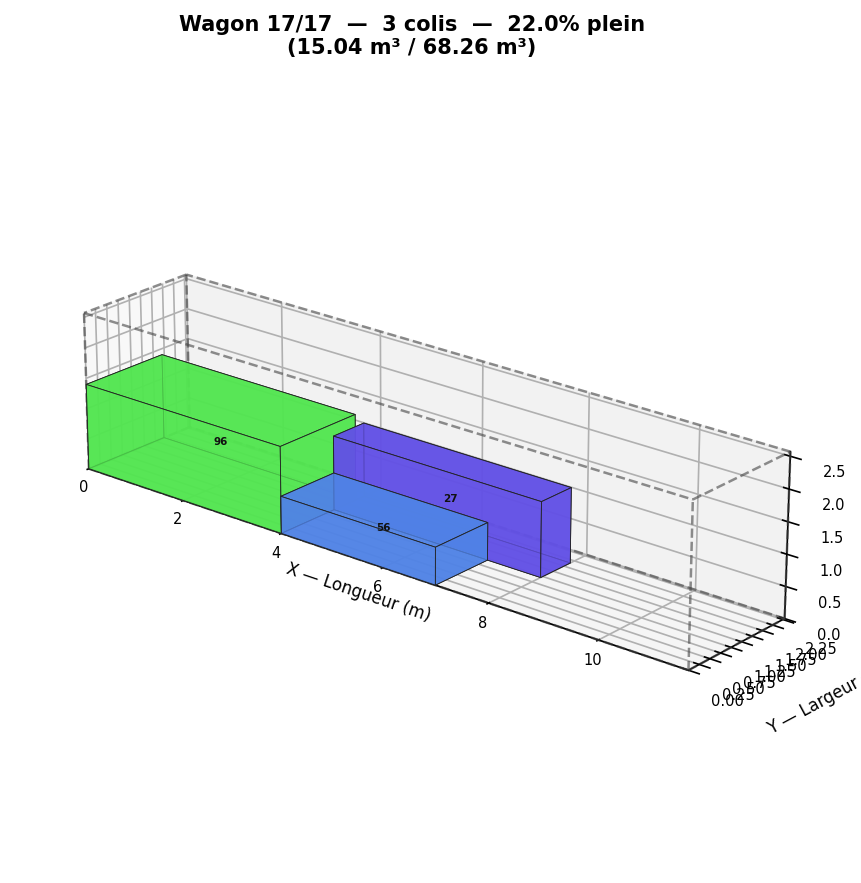
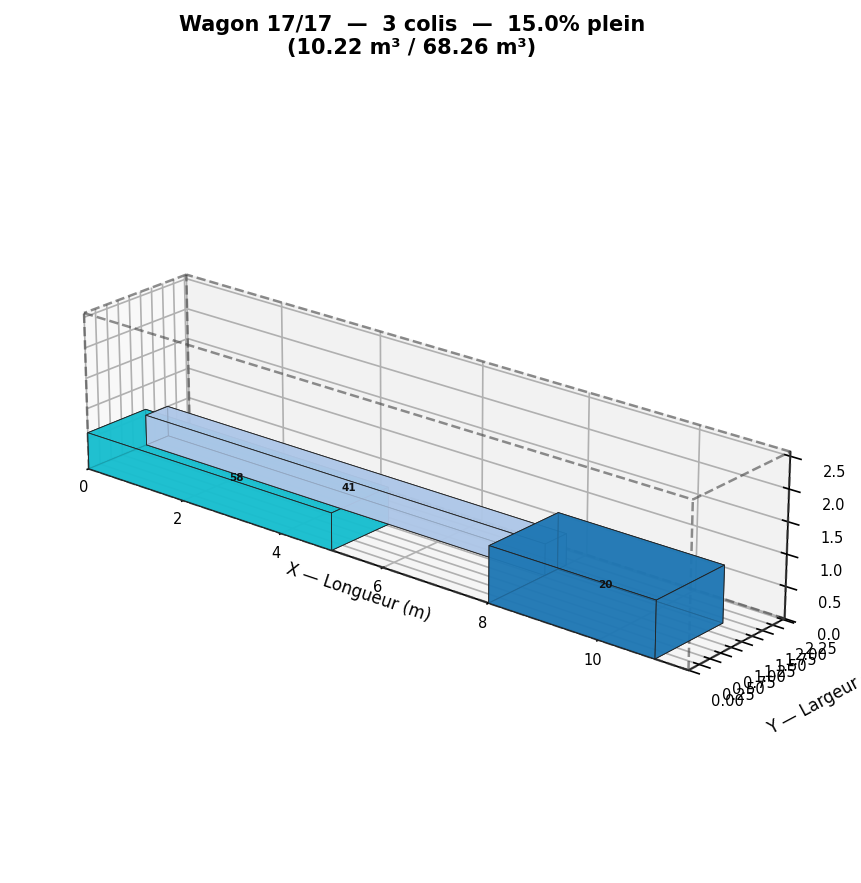
répare d2 offline

Changed region(s): [[0.0906, 0.3975, 0.8455, 0.7644], [0.5738, 0.0, 0.6341, 0.0612], [0.3624, 0.0306, 0.4228, 0.0612]]

diff --git a/partie2/d3/utils.py b/partie2/d3/utils.py
@@ -1,0 +1,74 @@
+import csv
+import os
+import time
+import matplotlib.pyplot as plt
+
+# Dimensions wagon standard (partagées par tous les modules)
+WAGON_L = 11.583  # longueur (m)
+WAGON_l = 2.294   # largeur (m)
+WAGON_H = 2.569   # hauteur (m)
+
+# Paramètres benchmark complexité
+TAILLES_N = [10, 20, 30, 40, 50, 60, 70, 80, 90, 100]
+N_TRIALS = 5
+
+
+def load_marchandises(csv_filename="Données_marchandises.csv"):
+    current_dir = os.path.dirname(os.path.abspath(__file__))
+    project_root = os.path.dirname(os.path.dirname(current_dir))  # d3/ → partie2/ → ProjetRO/
+    csv_path = os.path.join(project_root, "data", csv_filename)
+
+    marchandises = []
+    with open(csv_path, mode='r', encoding='utf-8') as f:
+        reader = csv.reader(f, delimiter=',')
+        for row in reader:
+            if not row:
+                continue
+            try:
+                marchandises.append({
+                    'id': int(row[0]),
+                    'nom': row[1].strip(),
+                    'longueur': float(row[2]),
+                    'largeur': float(row[3]),
+                    'hauteur': float(row[4]),
+                    'retournable': int(row[5]) if len(row) > 5 else 1
+                })
+            except (ValueError, IndexError):
+                continue
+    return marchandises
+
+
+def print_results(dimension_label, mode_label, nb_wagons, total_unused, execution_time):
+    avg_unused = total_unused / nb_wagons if nb_wagons > 0 else 0
+    print(f"\n{dimension_label} {mode_label}")
+    print(f"Nombre de wagons nécessaires : {nb_wagons}")
+    print(f"Dimension non occupée totale : {total_unused:.3f} m")
+    print(f"Espace vide moyen par wagon : {avg_unused:.3f} m")
+    print(f"Temps de calcul : {execution_time:.6f} secondes")
+    print()
+
+
+def mesurer(fn, data, n_trials=N_TRIALS):
+    """Temps moyen d'exécution de fn(data) sur n_trials itérations."""
+    t = 0
+    for _ in range(n_trials):
+        s = time.perf_counter()
+        fn(data)
+        t += time.perf_counter() - s
+    return t / n_trials
+
+
+def plot_complexite(tailles, temps_on, temps_off, titre, label_on, label_off, fichier):
+    """Génère et sauvegarde la courbe online vs offline."""
+    plt.figure(figsize=(10, 6))
+    plt.plot(tailles, temps_on, 'o-', label=label_on)
+    plt.plot(tailles, temps_off, 's-', label=label_off)
+    plt.title(titre)
+    plt.xlabel("Nombre de marchandises (n)")
+    plt.ylabel("Temps de calcul (s)")
+    plt.legend()
+    plt.grid(True, linestyle=':', alpha=0.6)
+    plt.tight_layout()
+    plt.savefig(fichier, dpi=150)
+    plt.close()
+    print(f"Graphique sauvegardé : {fichier}")

diff --git a/partie2/d1/utils.py b/partie2/d1/utils.py
@@ -1,0 +1,74 @@
+import csv
+import os
+import time
+import matplotlib.pyplot as plt
+
+# Dimensions wagon standard (partagées par tous les modules)
+WAGON_L = 11.583  # longueur (m)
+WAGON_l = 2.294   # largeur (m)
+WAGON_H = 2.569   # hauteur (m)
+
+# Paramètres benchmark complexité
+TAILLES_N = [10, 20, 30, 40, 50, 60, 70, 80, 90, 100]
+N_TRIALS = 5
+
+
+def load_marchandises(csv_filename="Données_marchandises.csv"):
+    current_dir = os.path.dirname(os.path.abspath(__file__))
+    project_root = os.path.dirname(os.path.dirname(current_dir))
+    csv_path = os.path.join(project_root, "data", csv_filename)
+
+    marchandises = []
+    with open(csv_path, mode='r', encoding='utf-8') as f:
+        reader = csv.reader(f, delimiter=',')
+        for row in reader:
+            if not row:
+                continue
+            try:
+                marchandises.append({
+                    'id': int(row[0]),
+                    'nom': row[1].strip(),
+                    'longueur': float(row[2]),
+                    'largeur': float(row[3]),
+                    'hauteur': float(row[4]),
+                    'retournable': int(row[5]) if len(row) > 5 else 1
+                })
+            except (ValueError, IndexError):
+                continue
+    return marchandises
+
+
+def print_results(dimension_label, mode_label, nb_wagons, total_unused, execution_time):
+    avg_unused = total_unused / nb_wagons if nb_wagons > 0 else 0
+    print(f"\n{dimension_label} {mode_label}")
+    print(f"Nombre de wagons nécessaires : {nb_wagons}")
+    print(f"Dimension non occupée totale : {total_unused:.3f} m")
+    print(f"Espace vide moyen par wagon : {avg_unused:.3f} m")
+    print(f"Temps de calcul : {execution_time:.6f} secondes")
+    print()
+
+
+def mesurer(fn, data, n_trials=N_TRIALS):
+    """Temps moyen d'exécution de fn(data) sur n_trials itérations."""
+    t = 0
+    for _ in range(n_trials):
+        s = time.perf_counter()
+        fn(data)
+        t += time.perf_counter() - s
+    return t / n_trials
+
+
+def plot_complexite(tailles, temps_on, temps_off, titre, label_on, label_off, fichier):
+    """Génère et sauvegarde la courbe online vs offline."""
+    plt.figure(figsize=(10, 6))
+    plt.plot(tailles, temps_on, 'o-', label=label_on)
+    plt.plot(tailles, temps_off, 's-', label=label_off)
+    plt.title(titre)
+    plt.xlabel("Nombre de marchandises (n)")
+    plt.ylabel("Temps de calcul (s)")
+    plt.legend()
+    plt.grid(True, linestyle=':', alpha=0.6)
+    plt.tight_layout()
+    plt.savefig(fichier, dpi=150)
+    plt.close()
+    print(f"Graphique sauvegardé : {fichier}")

diff --git a/partie2/d2/d2_offline.py b/partie2/d2/d2_offline.py
@@ -100,7 +100,7 @@ def placer_objet(wagons, objet):
                 score = min(espace_largeur - obj_longueur, espace_hauteur - obj_largeur)
                 if meilleur_score is None or score < meilleur_score:
                     meilleur_score = score
-                    meilleix_choix = (index_wagon, espace_x, espace_y, obj_longueur, obj_largeur, False)
+                    meilleur_choix = (index_wagon, espace_x, espace_y, obj_longueur, obj_largeur, False)
 
             # Essai avec rotation à 90°
             if ok_pivote and obj_largeur <= espace_largeur + EPS and obj_longueur <= espace_hauteur + EPS:

diff --git a/partie2/d2/utils.py b/partie2/d2/utils.py
@@ -15,7 +15,7 @@ N_TRIALS = 5
 
 def load_marchandises(csv_filename="Données_marchandises.csv"):
     current_dir = os.path.dirname(os.path.abspath(__file__))
-    project_root = os.path.dirname(current_dir)
+    project_root = os.path.dirname(os.path.dirname(current_dir))  # d2/ → partie2/ → ProjetRO/
     csv_path = os.path.join(project_root, "data", csv_filename)
 
     marchandises = []
